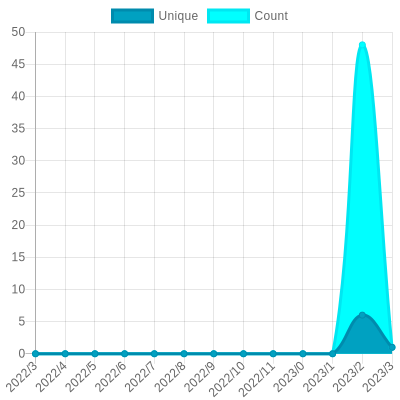
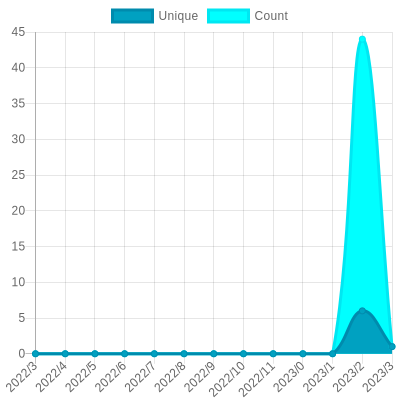
Update views

diff --git a/readme/471639041/year.md b/readme/471639041/year.md
@@ -37,7 +37,7 @@
 			<code>6</code>
 		</td>
 		<td>
-			<code>48</code>
+			<code>44</code>
 		</td>
 	</tr>
 	<tr>
@@ -164,7 +164,7 @@
 </table>
 
 </details>
-<small><i>Last updated on 2022/4/2 12:12 PM UTC</i></small>
+<small><i>Last updated on 2022/4/2 6:09 PM UTC</i></small>
 
 ## ✂Copy and 📋 Paste
 ### SVG Badge

diff --git a/README.md b/README.md
@@ -181,7 +181,7 @@ The project created and maintained by [gayanvoice](https://github.com/gayanvoice
 	</tr>
 </table>
 
-<small><i>Last updated on 2022/4/2 12:13 PM UTC</i></small>
+<small><i>Last updated on 2022/4/2 6:10 PM UTC</i></small>
 
 ## ✂Copy and 📋 Paste
 ### Total Views Badge

diff --git a/readme/442148592/year.md b/readme/442148592/year.md
@@ -164,7 +164,7 @@
 </table>
 
 </details>
-<small><i>Last updated on 2022/4/2 12:13 PM UTC</i></small>
+<small><i>Last updated on 2022/4/2 6:09 PM UTC</i></small>
 
 ## ✂Copy and 📋 Paste
 ### SVG Badge

diff --git a/readme/445334992/year.md b/readme/445334992/year.md
@@ -164,7 +164,7 @@
 </table>
 
 </details>
-<small><i>Last updated on 2022/4/2 12:13 PM UTC</i></small>
+<small><i>Last updated on 2022/4/2 6:09 PM UTC</i></small>
 
 ## ✂Copy and 📋 Paste
 ### SVG Badge

diff --git a/readme/466756958/year.md b/readme/466756958/year.md
@@ -164,7 +164,7 @@
 </table>
 
 </details>
-<small><i>Last updated on 2022/4/2 12:12 PM UTC</i></small>
+<small><i>Last updated on 2022/4/2 6:09 PM UTC</i></small>
 
 ## ✂Copy and 📋 Paste
 ### SVG Badge

diff --git a/readme/471680735/year.md b/readme/471680735/year.md
@@ -164,7 +164,7 @@
 </table>
 
 </details>
-<small><i>Last updated on 2022/4/2 12:13 PM UTC</i></small>
+<small><i>Last updated on 2022/4/2 6:10 PM UTC</i></small>
 
 ## ✂Copy and 📋 Paste
 ### SVG Badge

diff --git a/readme/471953072/year.md b/readme/471953072/year.md
@@ -164,7 +164,7 @@
 </table>
 
 </details>
-<small><i>Last updated on 2022/4/2 12:12 PM UTC</i></small>
+<small><i>Last updated on 2022/4/2 6:09 PM UTC</i></small>
 
 ## ✂Copy and 📋 Paste
 ### SVG Badge

diff --git a/readme/471953382/year.md b/readme/471953382/year.md
@@ -164,7 +164,7 @@
 </table>
 
 </details>
-<small><i>Last updated on 2022/4/2 12:12 PM UTC</i></small>
+<small><i>Last updated on 2022/4/2 6:09 PM UTC</i></small>
 
 ## ✂Copy and 📋 Paste
 ### SVG Badge

diff --git a/readme/471953501/year.md b/readme/471953501/year.md
@@ -164,7 +164,7 @@
 </table>
 
 </details>
-<small><i>Last updated on 2022/4/2 12:12 PM UTC</i></small>
+<small><i>Last updated on 2022/4/2 6:09 PM UTC</i></small>
 
 ## ✂Copy and 📋 Paste
 ### SVG Badge

diff --git a/readme/472121426/year.md b/readme/472121426/year.md
@@ -164,7 +164,7 @@
 </table>
 
 </details>
-<small><i>Last updated on 2022/4/2 12:13 PM UTC</i></small>
+<small><i>Last updated on 2022/4/2 6:10 PM UTC</i></small>
 
 ## ✂Copy and 📋 Paste
 ### SVG Badge

diff --git a/readme/472131818/year.md b/readme/472131818/year.md
@@ -164,7 +164,7 @@
 </table>
 
 </details>
-<small><i>Last updated on 2022/4/2 12:13 PM UTC</i></small>
+<small><i>Last updated on 2022/4/2 6:10 PM UTC</i></small>
 
 ## ✂Copy and 📋 Paste
 ### SVG Badge
